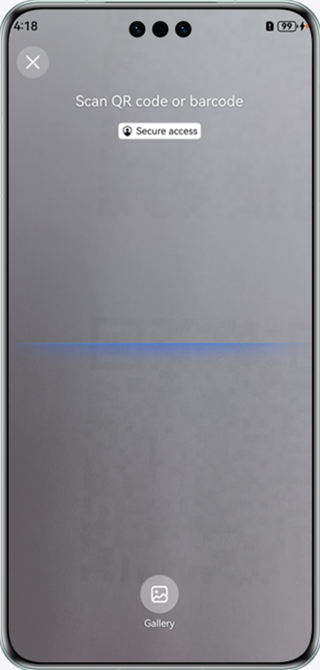
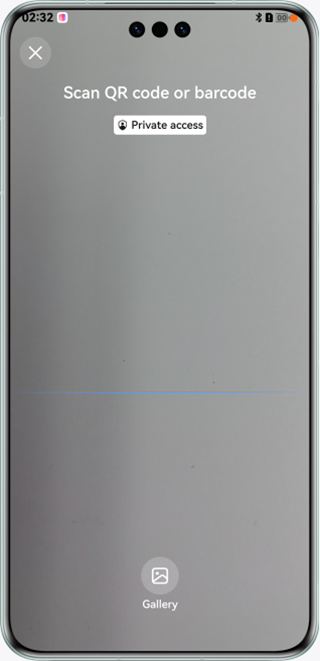
Scan Kit

diff --git a/readme_en.md b/readme_en.md
@@ -9,21 +9,53 @@ The APIs of Scan Kit need to be used: mport { scanCore, scanBarcode, customScan,
 
 ## Preview
 
-|               **Control Panel**              |             **Scan Code**            |          **Direct Access to Service Page**          |
-| :--------------------------------------: | :------------------------------------: | :-------------------------------: |
-| ![](entry/screenshots/controlCenterEs.png) | ![](entry/screenshots/scanSuccess.png) | ![](entry/screenshots/accessEs.png) |
-
-|          **App Home Page**          | **Barcode Scan by Default UI**                      |               **Scan Result (Single Barcode)**               |              **Scan Result (Multiple Barcodes)**             |           **Barcode Scan Result (Default UI)**          |
-| :-----------------------------: | -------------------------------------- | :------------------------------------------: | :----------------------------------------: | :--------------------------------------: |
-| ![](entry/screenshots/homePageEs.png) | ![](entry/screenshots/defaultScanEs.png) | ![](entry/screenshots/defaultSingleScanEs.png) | ![](entry/screenshots/defaultMutiScanEs.png) | ![](entry/screenshots/defaultResultEs.png) |
-
-|          **App Home Page**          | **Barcode Scan by Custom UI**                      |              **Scan Result (Single Barcode)**               |     **Scan Result (Multiple Barcodes)**     |    **Barcode Scan Result (Custom UI)**     |
-| :-----------------------------: | ---------------------------------------- | :-----------------------------------------: |:-------------------------------------------:|:------------------------------------------:|
-| ![](entry/screenshots/homePageEs.png) | ![](entry/screenshots/customScanNewEs.png) | ![](entry/screenshots/customScanSingleEs.png) | ![](entry/screenshots/customScanMutiEs.png) | ![](entry/screenshots/defaultResultEs.png) |
-
 <table>
   <tr>
-    <th width=16.5%>App Home Screen</th>
+    <th width=33.3%>Control Panel</th>
+    <th width=33.3%>Scan Code</th>
+    <th width=33.3%>Direct Access to Service Page</th>
+  </tr>
+  <tr>
+    <td><img src='entry/screenshots/controlCenterEs.png'></td>
+    <td><img src='entry/screenshots/scanSuccess.png'></td>
+    <td><img src='entry/screenshots/accessEs.png'></td>
+  </tr>
+</table>
+<table>
+  <tr>
+    <th width=20%>App Home Page</th>
+    <th width=20%>Barcode Scan by Default UI</th>
+    <th width=20%>Scan Result (Single Barcode)</th>
+    <th width=20%>Scan Result (Multiple Barcodes)</th>
+    <th width=20%>Barcode Scan Result (Default UI)</th>
+  </tr>
+  <tr>
+    <td><img src='entry/screenshots/homePageEs.png'></td>
+    <td><img src='entry/screenshots/defaultScanEs.png'></td>
+    <td><img src='entry/screenshots/defaultSingleScanEs.png'></td>
+    <td><img src='entry/screenshots/defaultMutiScanEs.png'></td>
+    <td><img src='entry/screenshots/defaultResultEs.png'></td>
+  </tr>
+</table>
+<table>
+  <tr>
+    <th width=20%>App Home Page</th>
+    <th width=20%>Barcode Scan by Custom UI</th>
+    <th width=20%>Scan Result (Single Barcode)</th>
+    <th width=20%>Scan Result (Multiple Barcodes)</th>
+    <th width=20%>Barcode Scan Result (Custom UI)</th>
+  </tr>
+  <tr>
+    <td><img src='entry/screenshots/homePageEs.png'></td>
+    <td><img src='entry/screenshots/customScanNewEs.png'></td>
+    <td><img src='entry/screenshots/customScanSingleEs.png'></td>
+    <td><img src='entry/screenshots/customScanMutiEs.png'></td>
+    <td><img src='entry/screenshots/defaultResultEs.png'></td>
+  </tr>
+</table>
+<table>
+  <tr>
+    <th width=16.5%>App Home Page</th>
     <th width=16.5%>Recognize Saved Image</th>
     <th width=16.5%>Recognize Single Barcode in Saved Image</th>
     <th width=16.5%>Recognize Multiple Barcodes in Saved Image</th>
@@ -39,10 +71,18 @@ The APIs of Scan Kit need to be used: mport { scanCore, scanBarcode, customScan,
     <td><img src='entry/screenshots/decodeImage.png'></td>
   </tr>
 </table>
-
-|          **App Home Page**          |          **Barcode Image Generation UI**          |             **Barcode Image Generation Result**             |
-| :-----------------------------: | :---------------------------------: | :---------------------------------------: |
-| ![](entry/screenshots/homePageEs.png) | ![](entry/screenshots/generateEs.png) | ![](entry/screenshots/generateResultEs.png) |
+<table>
+  <tr>
+    <th width=33.3%>App Home Page</th>
+    <th width=33.3%>Barcode Image Generation UI</th>
+    <th width=33.3%>Barcode Image Generation Result</th>
+  </tr>
+  <tr>
+    <td><img src='entry/screenshots/homePageEs.png'></td>
+    <td><img src='entry/screenshots/generateEs.png'></td>
+    <td><img src='entry/screenshots/generateResultEs.png'></td>
+  </tr>
+</table>
 
 How to Use
 
@@ -66,7 +106,7 @@ How to Use
 ├─entry/src/main/ets // Code area   
 │ ├─common    
 │ │ ├─CommonComponents.ets // Common components   
-│ │ ├─CommonTipsDialog.ts // Common pop-up   
+│ │ ├─CommonTipsDialog.ets // Common pop-up   
 │ │ ├─GlobalThisUtil.ts // Class that encapsulates **globalThis**   
 │ │ ├─Logger.ts // Log output method   
 │ │ ├─PermissionsUtil.ets // Camera authorization class   
@@ -84,7 +124,7 @@ How to Use
 │ │ │ │ ├─CommonConstants.ts // Common constants   
 │ │ │ ├─model          
 │ │ │ │ ├─BreakpointType.ets // Breakpoint type   
-│ │ │ │ ├─CommonEventManager.ets // Common event manager   
+│ │ │ │ ├─CommonEventManager.ts // Common event manager   
 │ │ │ │ ├─FontSizeScale.ets // Font size scaling   
 │ │ │ │ ├─OpenPhoto.ets // Gallery   
 │ │ │ │ ├─PromptTone.ts // Prompt tone   

diff --git a/readme_cn.md b/readme_cn.md
@@ -45,15 +45,15 @@
 3. 点击“默认界面扫码能力”按钮，进入二级界面，点击“默认界面扫码能力”按钮，拉起默认扫码页面，扫描码图，返回结果。
 4. 点击“自定义界面扫码能力”按钮，进入二级界面，点击“自定义界面扫码能力”按钮，通过推荐方式构建自定义扫码界面，扫描码图，返回结果。
 5. 点击“图像识码能力”按钮，进入二级界面，点击“识别本地图片”按钮，拉起picker从图库中选择图片，进行图像识码，选择码图，返回结果。
-6. 点击“图像识码能力”按钮，进入二级界面，点击“识别图像数据”按钮，扫描码图，显示结果。相机实现参考[cameraKit](https://developer.huawei.com/consumer/cn/doc/harmonyos-guides-V5/camera-dual-channel-preview-V5)
-7. 点击“码图生成能力”按钮，进入二级界面，点击“生成码”按钮，将字符串转换为自定义格式的码图；点击“生成乘车码”按钮，将字节数组转换为自定义格式的码图。通过字节数组生成码图，目前scan kit不支持识别出来内容。
+6. 点击“图像识码能力”按钮，进入二级界面，点击“识别图像数据”按钮，扫描码图，显示结果。相机实现参考[Camera Kit](https://developer.huawei.com/consumer/cn/doc/harmonyos-guides-V5/camera-dual-channel-preview-V5)
+7. 点击“码图生成能力”按钮，进入二级界面，点击“生成码”按钮，将字符串转换为自定义格式的码图；点击“生成乘车码”按钮，将字节数组转换为自定义格式的码图。通过字节数组生成码图，目前Scan Kit不支持识别出来内容。
 
 ## 工程目录
 
 ├─entry/src/main/ets // 代码区  
 │ ├─common  
 │ │ ├─CommonComponents.ets // 公共组件  
-│ │ ├─CommonTipsDialog.ts // 公共提示弹窗  
+│ │ ├─CommonTipsDialog.ets // 公共提示弹窗  
 │ │ ├─GlobalThisUtil.ts // globalThis封装类  
 │ │ ├─Logger.ts // 日志打印方法  
 │ │ ├─PermissionsUtil.ets // 相机授权类  
@@ -71,7 +71,7 @@
 │ │ │ │ ├─CommonConstants.ts // 公共常量  
 │ │ │ ├─model        
 │ │ │ │ ├─BreakpointType.ets // 断点  
-│ │ │ │ ├─CommonEventManager.ets // 公共事件管理  
+│ │ │ │ ├─CommonEventManager.ts // 公共事件管理  
 │ │ │ │ ├─FontSizeScale.ets // 字体大小缩放  
 │ │ │ │ ├─OpenPhoto.ets // 图库  
 │ │ │ │ ├─PromptTone.ts // 提示音  
